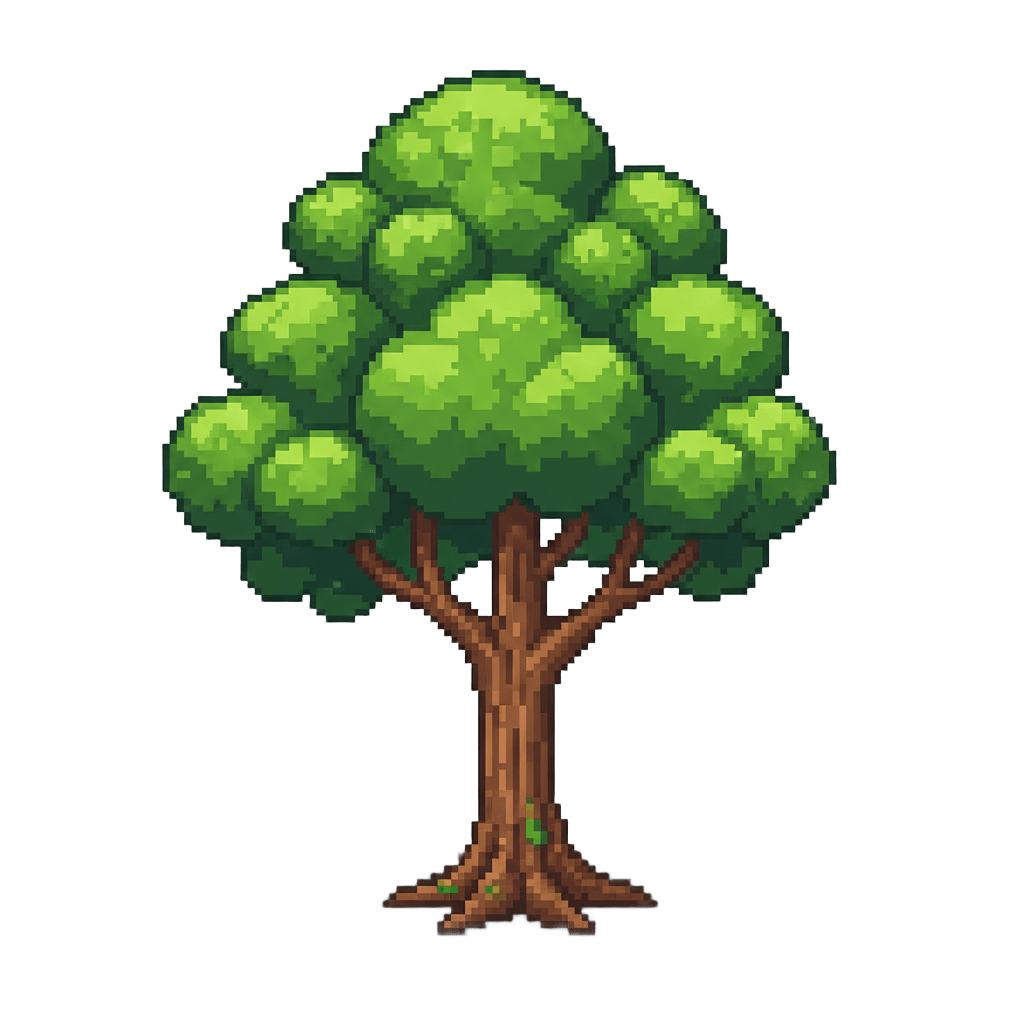
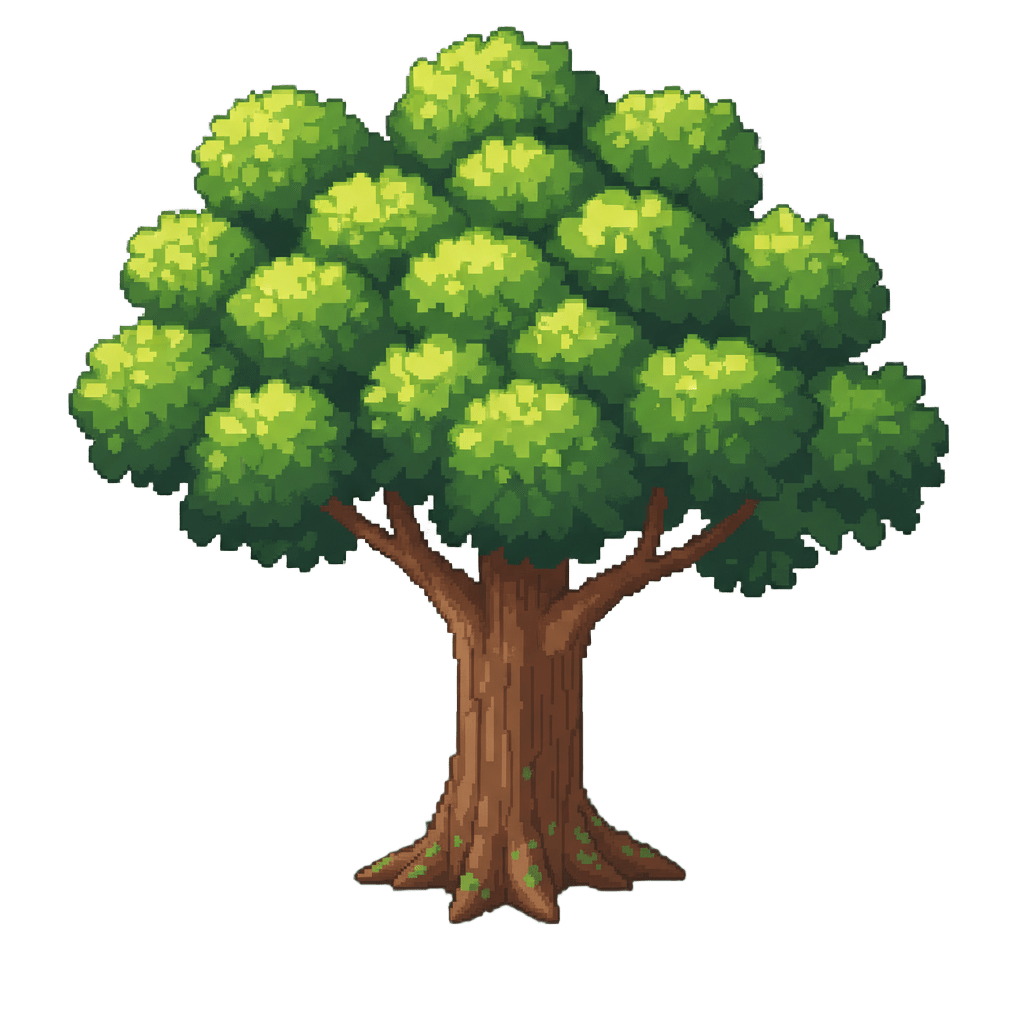
木は変わった。

diff --git a/js/stage.js b/js/stage.js
@@ -1,23 +1,44 @@
 import { BLOCK_SIZE, PLATFORM_HEIGHT_IN_BLOCKS, PLAYER_MAX_JUMP_IN_BLOCKS, INITIAL_SCROLL_SPEED } from './config.js';
 
-const WALL_COLOR = '#555';
-
 const MIN_PLATFORM_WIDTH_IN_BLOCKS = 5;
 const MAX_PLATFORM_WIDTH_IN_BLOCKS = 15;
 const MIN_GAP_IN_BLOCKS = 4;
 const MAX_GAP_IN_BLOCKS = 40;
 
 export class Wall {
-    constructor(x, y, width, height, isBreakable = false) {
+    constructor(x, y, width, height, image, isBreakable = false, stumpImage = null) {
         this.x = x;
         this.y = y;
         this.width = width;
         this.height = height;
+        this.image = image;
         this.isBreakable = isBreakable;
+        this.stumpImage = stumpImage;
     }
+
+    break() {
+        if (!this.isBreakable) return;
+        
+        const newHeight = BLOCK_SIZE * 2.5;
+        const newWidth = BLOCK_SIZE * 2;
+
+        const centerX = this.x + this.width / 2;
+        this.x = centerX - (newWidth / 2);
+        
+        this.y = this.y + this.height - newHeight;
+        this.height = newHeight;
+        this.width = newWidth;
+        this.image = this.stumpImage;
+        this.isBreakable = false;
+    }
+
     draw(ctx) {
-        ctx.fillStyle = WALL_COLOR;
-        ctx.fillRect(this.x, this.y, this.width, this.height);
+        if (this.image && this.image.complete && this.image.naturalHeight !== 0) {
+            ctx.drawImage(this.image, this.x, this.y, this.width, this.height);
+        } else {
+            ctx.fillStyle = '#555';
+            ctx.fillRect(this.x, this.y, this.width, this.height);
+        }
     }
 }
 
@@ -68,7 +89,7 @@ export class Stage {
     constructor(game) {
         this.game = game;
         this.scrollSpeed = INITIAL_SCROLL_SPEED;
-        this.elapsedTimeInSeconds = 0; // 経過時間を保持
+        this.elapsedTimeInSeconds = 0;
         this.groundImage = new Image();
         this.groundImage.src = 'https://github.com/puchimagic/oic_hack/blob/main/img/ground.png?raw=true';
         this.enemyImage = new Image();
@@ -79,6 +100,11 @@ export class Stage {
         this.playerJumpImage.src = 'https://github.com/puchimagic/oic_hack/blob/main/img/character_jump.png?raw=true';
         this.playerWalkImage = new Image();
         this.playerWalkImage.src = 'https://github.com/puchimagic/oic_hack/blob/main/img/character_woke.png?raw=true';
+        
+        this.treeImage = new Image();
+        this.treeImage.src = 'img/ki.png';
+        this.stumpImage = new Image();
+        this.stumpImage.src = 'img/kirikabu.png';
     }
 
     init() {
@@ -106,20 +132,30 @@ export class Stage {
         this.platforms.push(platform);
         this.lastPlatformX = x + platform.width;
 
-        // 8ブロックより大きい足場に障害物を生成
-        if (widthInBlocks > 8 && Math.random() < 0.8) { // 80%の確率で何らかの障害物を生成
+        if (widthInBlocks > 8 && Math.random() < 0.8) {
             const t = this.elapsedTimeInSeconds;
-            const wallThreshold = 0.45; // 壁の出現確率は45%で固定
-            // 敵の出現率は45%からスタートし、30秒ごとに約10%上昇(最大80%)
+            const wallThreshold = 0.45;
             const enemyChance = Math.min(0.8, 0.45 + (t / 150));
-            
-            const obstacleType = Math.random(); // 0-1の乱数
+            const obstacleType = Math.random();
 
             if (obstacleType < wallThreshold) {
                 const isHighWall = Math.random() < 0.5;
                 const wallHeight = isHighWall ? BLOCK_SIZE * 6 : BLOCK_SIZE * 2.5;
-                const wall = new Wall(x + platform.width / 2, y - wallHeight, BLOCK_SIZE, wallHeight, isHighWall);
+                const wallWidth = isHighWall ? BLOCK_SIZE * 1.5 : BLOCK_SIZE * 2;
+                const wallImage = isHighWall ? this.treeImage : this.stumpImage;
+                const wallX = (x + platform.width / 2) - (wallWidth / 2);
+                
+                const wall = new Wall(
+                    wallX, 
+                    y - wallHeight, 
+                    wallWidth, 
+                    wallHeight, 
+                    wallImage,
+                    isHighWall,
+                    this.stumpImage
+                );
                 this.walls.push(wall);
+
                 if (isHighWall) {
                     this.game.currentScene.requestWallBreakEvent(wall);
                 }
@@ -132,7 +168,6 @@ export class Stage {
 
     generateNext() {
         const t = this.elapsedTimeInSeconds;
-        // 穴の最大幅を時間経過で狭くする (40 -> 8)
         const currentMaxGap = Math.max(PLAYER_MAX_JUMP_IN_BLOCKS, MAX_GAP_IN_BLOCKS - (t / 10));
         const gapInBlocks = MIN_GAP_IN_BLOCKS + Math.floor(Math.random() * (currentMaxGap - MIN_GAP_IN_BLOCKS + 1));
         

diff --git a/js/scenes/game.js b/js/scenes/game.js
@@ -183,7 +183,7 @@ export class GameScene {
             const requiredActions = wallData.requiredKeys.map(key => `ACTION_${key}`);
             if (requiredActions.every(action => this.player2Input.isActionDown(action)) && 
                 requiredActions.some(action => this.player2Input.isActionPressed(action))) {
-                this.stage.walls = this.stage.walls.filter(w => w !== target);
+                target.break();
                 this.breakableWalls.delete(target);
             }
         }
@@ -231,10 +231,16 @@ export class GameScene {
 
         this.breakableWalls.forEach((data, wall) => {
             const keyText = data.requiredKeys.join(' + ');
-            ctx.fillStyle = '#f0ad4e';
             ctx.font = `${BLOCK_SIZE}px ${FONT_FAMILY}`;
             ctx.textAlign = 'center';
             ctx.textBaseline = 'middle';
+
+            // テキストに黒い縁取りを追加
+            ctx.strokeStyle = 'black';
+            ctx.lineWidth = 4;
+            ctx.strokeText(keyText, wall.x + wall.width / 2, wall.y + wall.height / 2);
+            
+            ctx.fillStyle = 'white';
             ctx.fillText(keyText, wall.x + wall.width / 2, wall.y + wall.height / 2);
         });
 
